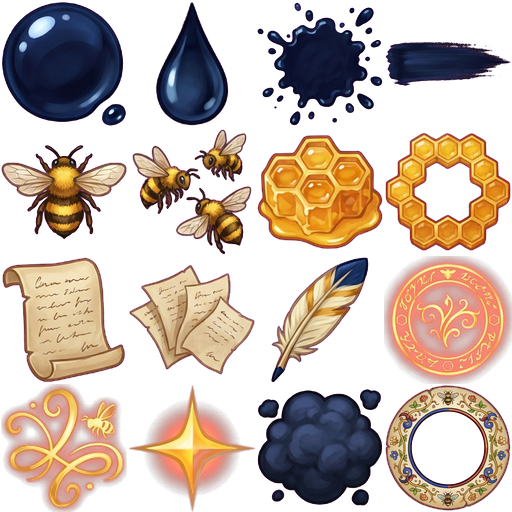
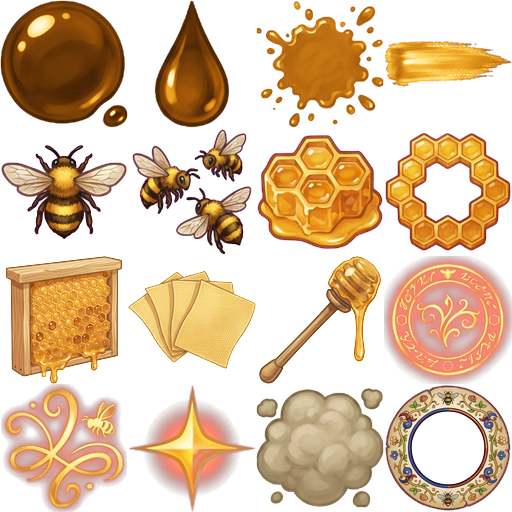
Beekeeper Hollin: honey instead of ink (bolt, splats, full-charge blot, smoke); hive frame, wax sheets and honey dipper sprites

diff --git a/tools/fx-prompts/scribe_beekeeper_honey.py b/tools/fx-prompts/scribe_beekeeper_honey.py
@@ -1,0 +1,59 @@
+"""Hollin's Beekeeper effect sheet (assets/fx/scribe@beekeeper.png) kept the base sheet's ink cells - the ink glob,
+drop, splat, brush stroke and ink cloud - so her Ink Bolt, its blot and the dust at her feet came out black - and
+her HQ splat painting (assets/fx/hq/scribe.splat@beekeeper.png, the full-charge blot) was the ink one too. This
+recolours those five cells from the base sheet and the HQ splat from the base painting: the ink becomes glossy amber honey (its own shading mapped onto a
+dark-amber -> gold -> pale-highlight ramp), the ink cloud becomes pale golden smoker smoke. Alpha is kept.
+
+    python3 tools/fx-prompts/scribe_beekeeper_honey.py
+"""
+import os
+
+import numpy as np
+from PIL import Image
+
+ROOT = os.path.join(os.path.dirname(__file__), "..", "..")
+BASE = os.path.join(ROOT, "assets", "fx", "scribe.png")
+OUT = os.path.join(ROOT, "assets", "fx", "scribe@beekeeper.png")
+# Cell order of the scribe atlas (src/render/fx/atlas.ts SCRIBE).
+CELLS = ["ink", "drop", "splat", "stroke", "bee", "bees", "comb", "hiveRing", "page", "pages", "quill", "rune",
+         "sigil", "star", "inkCloud", "ring"]
+HONEY = [(0.0, (70, 34, 4)), (0.35, (170, 92, 10)), (0.65, (236, 162, 32)), (0.85, (255, 214, 96)), (1.0, (255, 246, 210))]
+# Splats are a flat dark tone in the middle, so they get a brighter floor (a pool of runny honey, not toffee).
+HONEY_POOL = [(0.0, (150, 78, 8)), (0.4, (214, 132, 24)), (0.75, (246, 192, 64)), (1.0, (255, 242, 196))]
+SMOKE = [(0.0, (120, 98, 64)), (0.5, (196, 176, 136)), (1.0, (250, 240, 214))]
+
+
+def ramp(t, stops):
+    out = np.zeros(t.shape + (3,))
+    for (a, ca), (b, cb) in zip(stops, stops[1:]):
+        m = (t >= a) & (t <= b)
+        k = ((t - a) / max(b - a, 1e-6))[m][:, None]
+        out[m] = np.array(ca) * (1 - k) + np.array(cb) * k
+    return out
+
+
+def recolour(cell, stops, gamma):
+    a = np.asarray(cell).astype(float)
+    rgb, alpha = a[..., :3], a[..., 3]
+    lum = rgb @ np.array([0.3, 0.55, 0.15]) / 255
+    vis = alpha > 8
+    lo, hi = np.percentile(lum[vis], 2), np.percentile(lum[vis], 99.5)
+    t = np.clip((lum - lo) / max(hi - lo, 1e-6), 0, 1) ** gamma
+    out = np.dstack([ramp(t, stops), alpha])
+    return Image.fromarray(out.clip(0, 255).astype(np.uint8), "RGBA")
+
+
+base = Image.open(BASE).convert("RGBA")
+out = Image.open(OUT).convert("RGBA")
+W = base.width // 4
+for name, stops, gamma in (("ink", HONEY, 0.8), ("drop", HONEY, 0.8), ("splat", HONEY_POOL, 0.6), ("stroke", HONEY, 0.75),
+                           ("inkCloud", SMOKE, 0.7)):
+    i = CELLS.index(name)
+    box = ((i % 4) * W, (i // 4) * W, (i % 4 + 1) * W, (i // 4 + 1) * W)
+    out.paste(recolour(base.crop(box), stops, gamma), box[:2])
+out.save(OUT)
+print("recoloured", OUT)
+HQ = os.path.join(ROOT, "assets", "fx", "hq")
+recolour(Image.open(os.path.join(HQ, "scribe.splat.png")).convert("RGBA"), HONEY_POOL, 0.6).save(
+    os.path.join(HQ, "scribe.splat@beekeeper.png"))
+print("recoloured HQ splat")

diff --git a/tools/fx-prompts/scribe_beekeeper_props_cut.py b/tools/fx-prompts/scribe_beekeeper_props_cut.py
@@ -1,0 +1,28 @@
+"""Cut the Beekeeper's three new effect sprites (out/scribe_beekeeper_props.png, a 2x2 Nano Banana sheet from
+scribe_beekeeper_props_prompt.txt) into her effect sheet, replacing the ink scribe's page, pages and quill:
+a wooden hive frame of capped honeycomb (page), a fan of hexagon beeswax foundation sheets (pages) and a honey
+dipper (quill; the second dipper in the sheet is a spare). Run from tools/fx-prompts:
+
+    python3 scribe_beekeeper_props_cut.py
+"""
+import sys
+
+from PIL import Image
+
+sys.argv = sys.argv[:1]
+from costume_fx_cut import CELL, fit, keyed  # noqa: E402
+
+SHEET = "../../assets/fx/scribe@beekeeper.png"
+a, al = keyed("out/scribe_beekeeper_props.png")
+H, W = al.shape
+quad = lambda cx, cy: (cx * W // 2, cy * H // 2, (cx + 1) * W // 2, (cy + 1) * H // 2)  # noqa: E731
+sheet = Image.open(SHEET).convert("RGBA")
+for cell, q in ((8, (0, 0)), (9, (1, 0)), (10, (0, 1))):
+    sprite = fit(a, al, quad(*q))
+    if sheet.width // 4 != CELL:
+        sprite = sprite.resize((sheet.width // 4, sheet.width // 4), Image.LANCZOS)
+    x, y = (cell % 4) * (sheet.width // 4), (cell // 4) * (sheet.width // 4)
+    sheet.paste(Image.new("RGBA", sprite.size, (0, 0, 0, 0)), (x, y))
+    sheet.paste(sprite, (x, y))
+sheet.save(SHEET)
+print("cut page / pages / quill into", SHEET)

diff --git a/docs/decisions.md b/docs/decisions.md
@@ -1191,3 +1191,4 @@ Per hero: what a top player would exploit, taught to the CPUs (`src/sim/bot/tact
 - Select: seals no longer shrink on a crowded tile (back to full size, overlapping; the split border stays). Picking up a seal: grab radius 13 px (was 8, smaller than the ~20 px seal), and among seals in reach the hand's own seat's seal wins, else the nearest (was last-drawn).
 - CPU building: (1) a pad the bot can't walk onto is built from the nearest reachable cell within build reach that has it as its nearest pad (economy.ts buildSpot; bot.ts presses build when padNear() is the chosen pad, like a human) - Hollow's raised back pad was never built (0/6 games -> 6/6). (2) Empty home pads are filled from 40 s (was 90), with the home buildings the plan still lacks. (3) Just respawned (10 s window, no enemy champion within 12 m): upgrade / specialise a home building or fill a home pad first (homeErrand). (4) Every enemy champion down: a free forward / neutral pad within 26 m that's safe gets an outpost (or a tower at the outpost cap) on the way to the siege (windowBuild). (5) Away pads and tending only while safe (padSafe: no enemy champion within 14 m, soldiers within 8 m, or tower in range) - building creeps on unattended. CPU-vs-CPU 1v1 at 6 min per team: home pads filled 57% -> 89%, away pads held 0.6 -> 2.4, upgraded 0.1 -> 2.7, specialised 0 -> 0.7. Title / main menu backdrop: a random mode on a random field for it (match.ts randomAttract; TDM only on the two-team arenas), the player's mode / field untouched; champion select switches the backdrop back to the chosen field.
 - Bramble's Tinker's Hive wasp walks: rider_tinker.py adds six leg bones (rooted under the thorax, measured feet / roots) and an abdomen bone (at the pipe behind the thorax), all children of hips pointing +Y so their local axes are the model's, and splits the wasp's hips-only weights onto them (abdomen behind y 0.15-0.25; legs below the thorax / out to the sides by nearest root->foot line seen from above, blended into hips at the roots). Idle and run stand on the ground (no hover); run is a tripod gait (FL+MR+RL vs FR+ML+RR, swing forward lifted ~20 deg / push back planted, one cycle per loop - checked on the exported model: the front-left foot lifts 14 cm and steps 11 cm toward the head, then plants), small body bounce / roll so planted feet stay within ~5 cm of the ground; the abdomen sways side to side in every clip (14 deg in run, 10 in idle, 7 elsewhere), legs tuck in flight and curl in death.
+- Hollin's Beekeeper effects: her sheet (assets/fx/scribe@beekeeper.png) kept the ink scribe's ink glob, drop, splat, stroke and ink cloud, and her HQ splat painting was the ink one, so Ink Bolt hits, the full-charge blot and the dust at her feet were black: tools/fx-prompts/scribe_beekeeper_honey.py recolours them to amber honey (splats on a brighter 'runny honey' ramp) and pale smoker smoke. New page / pages / quill sprites (one Nano Banana 2x2 sheet, $0.15, scribe_beekeeper_props_prompt.txt; cut by scribe_beekeeper_props_cut.py): a wooden hive frame of capped honeycomb, a fan of hexagon beeswax foundation sheets, and a honey dipper.
